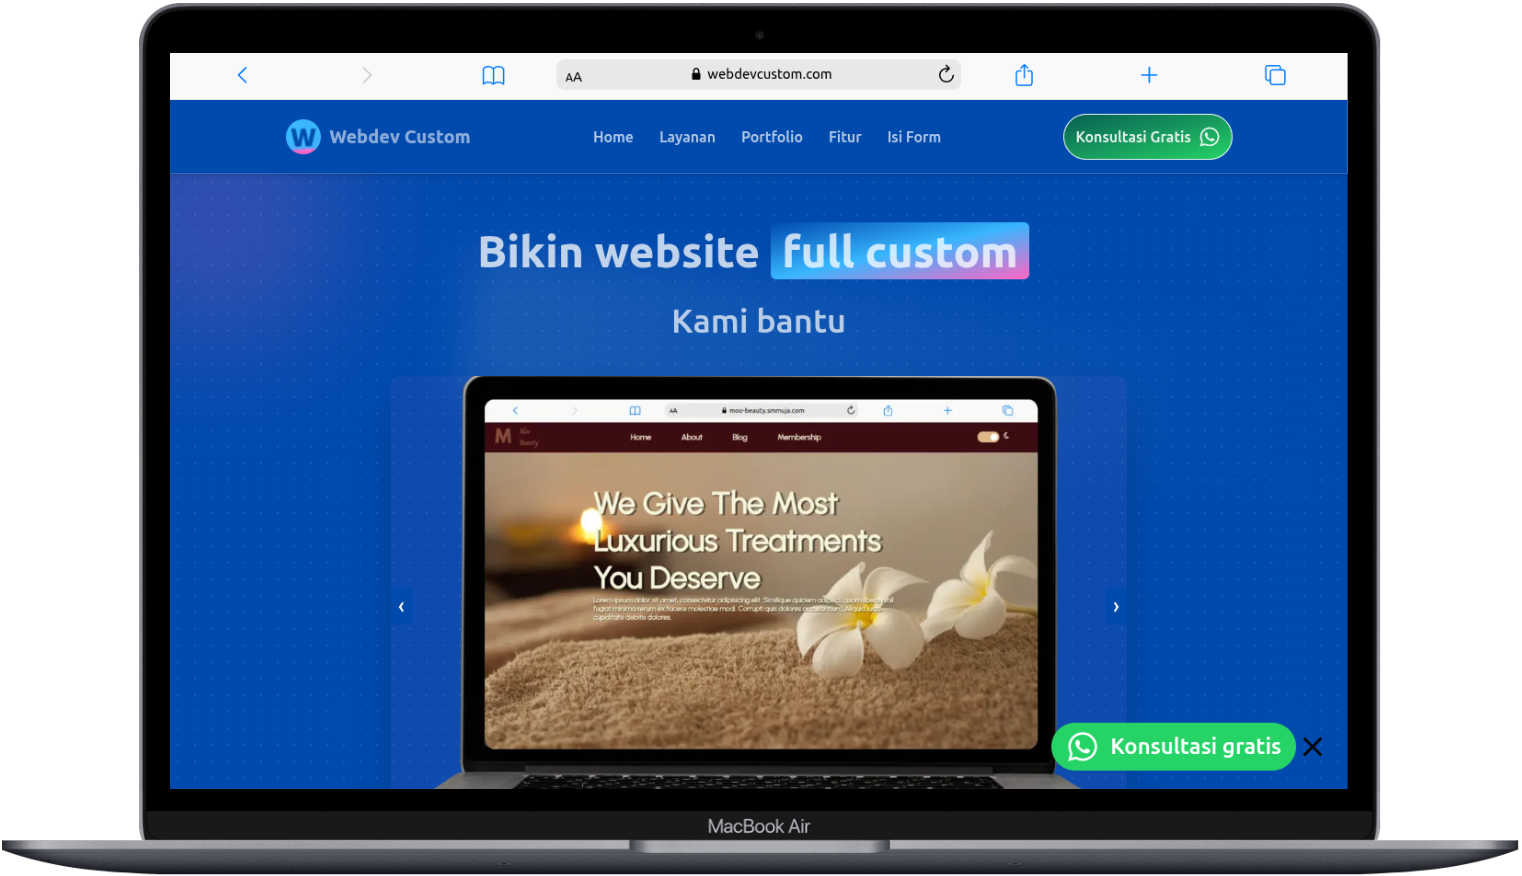
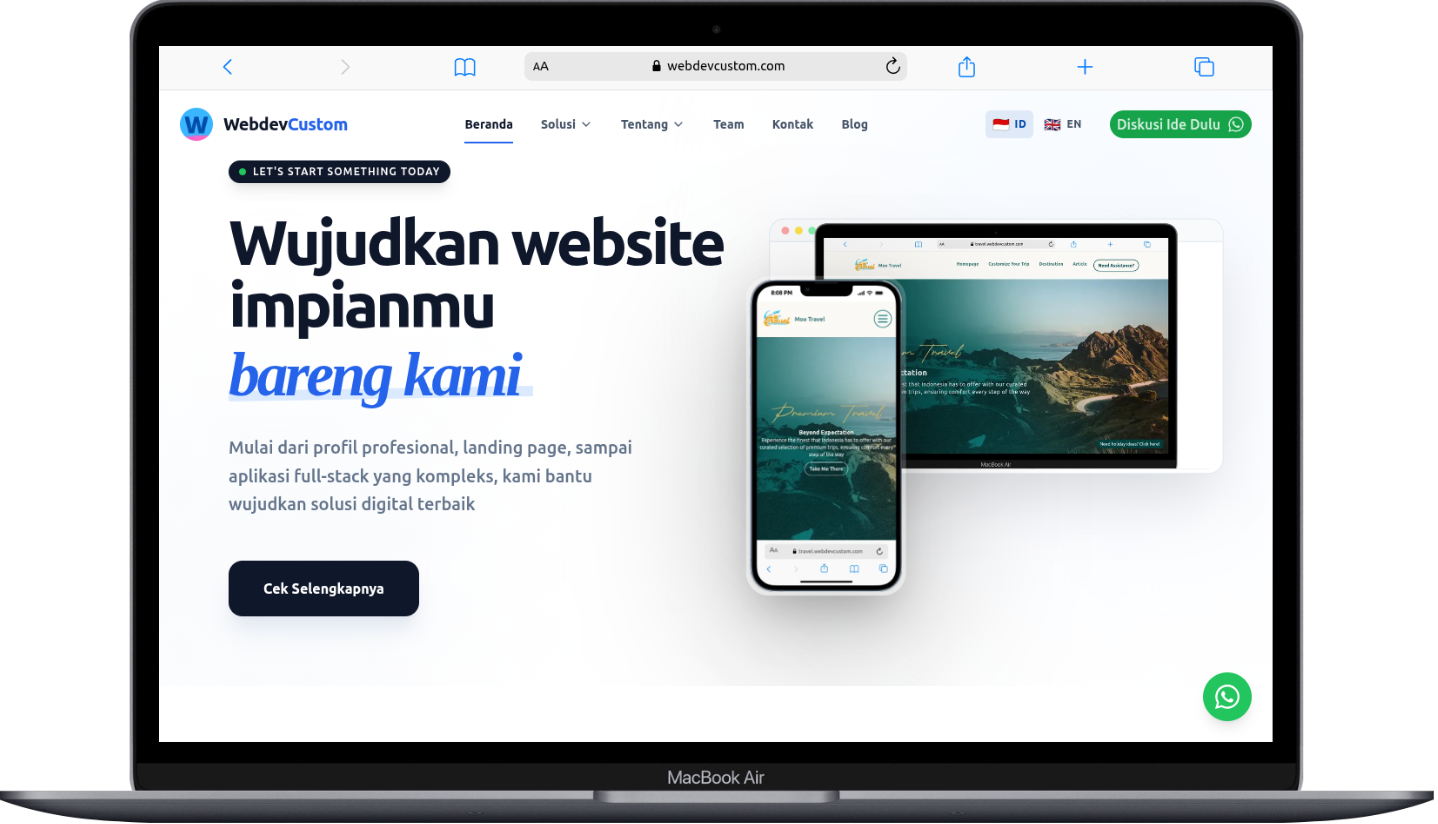
assets: project and services

diff --git a/src/data/servicesData.ts b/src/data/servicesData.ts
@@ -1,18 +1,18 @@
 export const servicesData = [
   {
     service_id: 1,
-    service_name: "Meownly Career",
-    service_url: "https://meownly.com",
-    service_icon: "/img/services/meownly-career.ico",
-    service_description: "CV Generator & Career Consultation",
-    service_image: "/img/services/meownly-career.png",
-  },
-  {
-    service_id: 2,
     service_name: "Webdev Custom",
     service_url: "https://webdevcustom.com",
     service_icon: "/img/services/webdev-custom.ico",
     service_description: "Custom web development services",
     service_image: "/img/services/webdev-custom.png",
+  },
+  {
+    service_id: 2,
+    service_name: "Meownly Career",
+    service_url: "https://meownly.com",
+    service_icon: "/img/services/meownly-career.ico",
+    service_description: "CV Generator & Career Consultation",
+    service_image: "/img/services/meownly-career.png",
   },
 ];

diff --git a/src/data/projectData.ts b/src/data/projectData.ts
@@ -15,7 +15,7 @@ export const projectData = [
     project_website_name: "meownly.com",
     project_linkdeploy: "https://meownly.com/",
     project_github_sourcecode: "",
-    project_image_url: "/img/projects/meownly-talk.png",
+    project_image_url: "/img/projects/meownly-career.png",
   },
   {
     project_id: 2,
